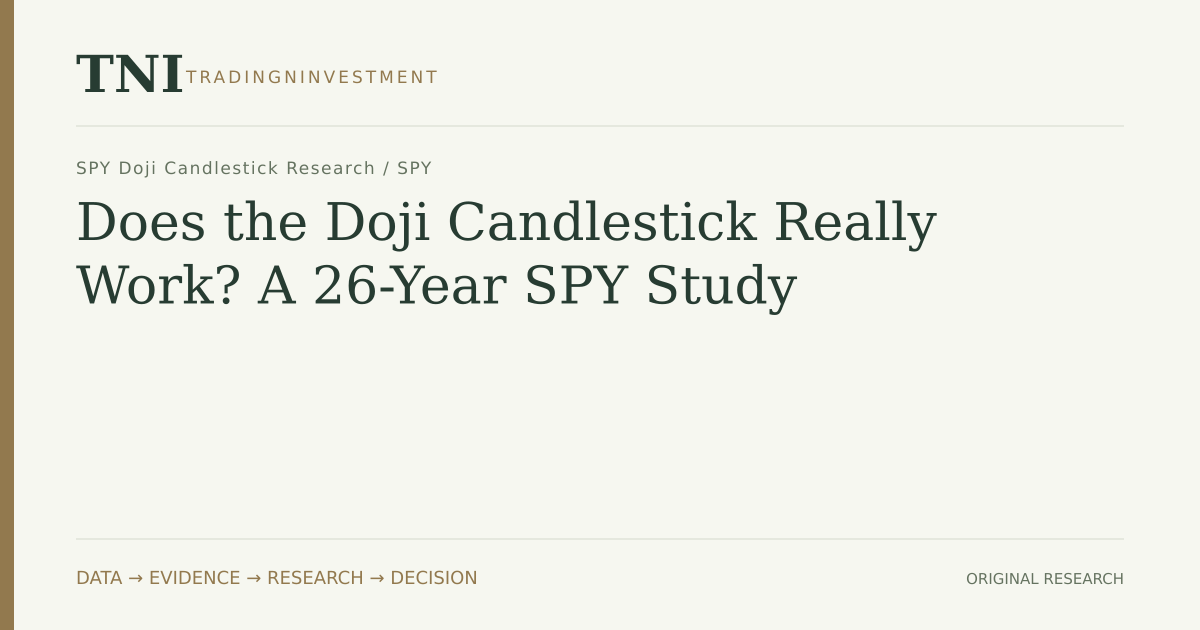
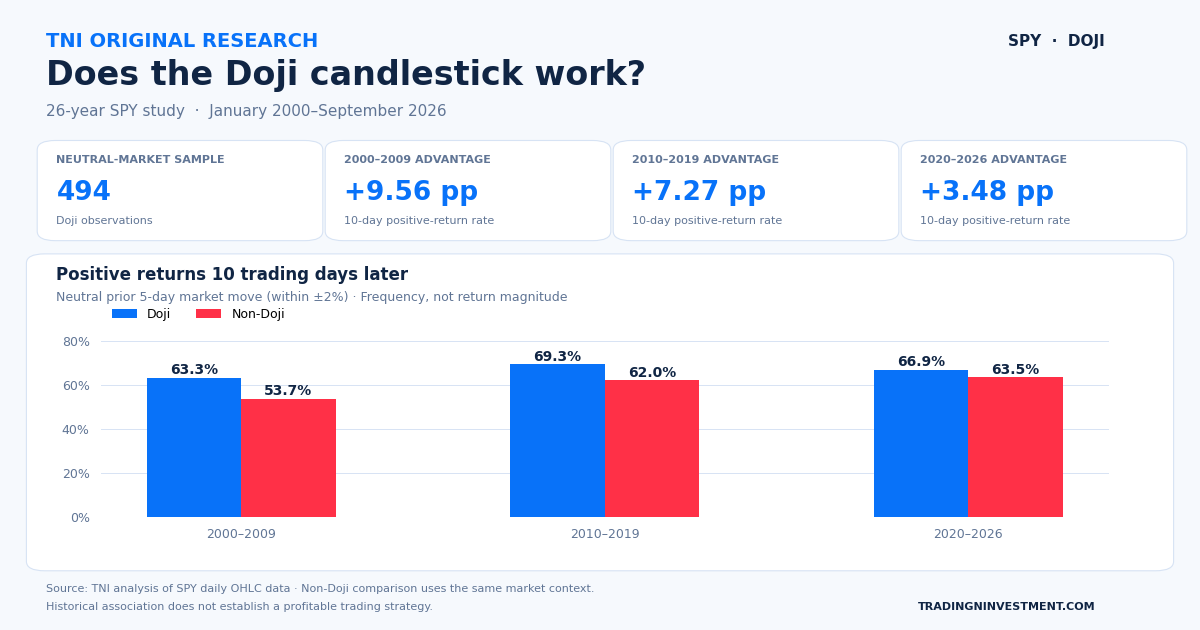
Fix mobile navigation and research cards; preserve approved Doji OG

diff --git a/src/App.tsx b/src/App.tsx
@@ -264,41 +264,25 @@ function Header({
             <span>→</span>
           </a>
         </div>
+        <details className="tni-mobile-menu" onKeyDown={(event) => {
+          if (event.key === 'Escape') {
+            event.currentTarget.open = false
+            event.currentTarget.querySelector('summary')?.focus()
+          }
+        }}>
+          <summary>Menu <span aria-hidden="true">⌄</span></summary>
+          <nav className="tni-mobile-menu-panel" aria-label="Mobile navigation">
+            <a href="/">Home</a>
+            <a href="/stock-market-today/">Stock Market Today <span aria-hidden="true">↗</span></a>
+            <a href="/research/">Research</a>
+            <a href="/about/">About</a>
+            <button type="button" onClick={shareCurrentPage}>Share this page</button>
+            <a className="tni-mobile-launch" href="https://app.tradingninvestment.com/live/news" target="_blank" rel="noreferrer">Launch TNI <span aria-hidden="true">↗</span></a>
+          </nav>
+        </details>
       </header>
 
-      {/* ====================================================================
-          MOBILE BOTTOM NAVIGATION
-          ==================================================================== */}
 
-      <nav className="mobile-bottom-nav">
-        <button
-          type="button"
-          className={pathname === '/' && page === 'research' ? 'active' : ''}
-          onClick={() => navigate('research')}
-        >
-          Home
-        </button>
-
-        <button type="button" className={pathname.startsWith('/research/') ? 'active' : ''} onClick={() => window.location.assign('/research/')}>Research</button>
-
-        <a className="mobile-tni-product" href="https://app.tradingninvestment.com/live/news" aria-label="Open TNI Intelligence">✦ TNI</a>
-
-        <button
-          type="button"
-          className={page === 'market' ? 'active' : ''}
-          onClick={() => window.location.assign('/stock-market-today/')}
-        >
-          Market
-        </button>
-
-        <button
-          type="button"
-          className={page === 'about' ? 'active' : ''}
-          onClick={() => navigate('about')}
-        >
-          About
-        </button>
-      </nav>
     </>
   )
 }

diff --git a/src/SiteShell.css b/src/SiteShell.css
@@ -417,3 +417,23 @@
     padding-bottom: 0;
   }
 }
+
+/* Mobile navigation: native details remains usable before hydration. */
+.tni-mobile-menu { display: none; }
+@media (max-width: 900px) {
+  .site-header { position: relative; z-index: 100; display: flex; align-items: center; justify-content: space-between; gap: 12px; padding: 14px 18px; min-height: 68px; box-sizing: border-box; }
+  .site-header .desktop-nav, .site-header .header-actions { display: none; }
+  .site-header .brand { min-width: 0; gap: 9px; padding: 0; }
+  .site-header .brand-mark { flex-shrink: 0; font-size: 20px; }
+  .site-header .brand-copy strong { font-size: 14px; line-height: 1.3; }
+  .site-header .brand-copy small { font-size: 7px; letter-spacing: .09em; }
+  .tni-mobile-menu { display: block; flex-shrink: 0; }
+  .tni-mobile-menu summary { display: flex; align-items: center; gap: 10px; cursor: pointer; list-style: none; border: 1px solid #dce5e8; border-radius: 12px; padding: 12px 14px; color: #172d35; background: #fff; font-size: 14px; font-weight: 650; }
+  .tni-mobile-menu summary::-webkit-details-marker { display: none; }
+  .tni-mobile-menu[open] summary { background: #edf7f4; border-color: #90bcb0; }
+  .tni-mobile-menu-panel { position: absolute; top: calc(100% + 6px); left: 14px; right: 14px; padding: 10px; display: grid; gap: 4px; border: 1px solid #dce5e8; border-radius: 18px; background: #fff; box-shadow: 0 18px 50px #17382c26; max-height: 75vh; overflow-y: auto; }
+  .tni-mobile-menu-panel a, .tni-mobile-menu-panel button { display: flex; align-items: center; justify-content: space-between; box-sizing: border-box; min-height: 48px; width: 100%; padding: 12px 14px; border: 0; border-radius: 10px; background: transparent; color: #17352f; font: inherit; font-size: 15px; text-align: left; text-decoration: none; cursor: pointer; }
+  .tni-mobile-menu-panel a:hover, .tni-mobile-menu-panel button:hover { background: #f0f6f4; }
+  .tni-mobile-menu-panel .tni-mobile-launch { background: #173f35; color: white; }
+  .tni-mobile-menu :focus-visible { outline: 3px solid #168b80; outline-offset: 3px; }
+}

diff --git a/src/components/home/PremiumResearchHome.css b/src/components/home/PremiumResearchHome.css
@@ -729,3 +729,13 @@
 /* Every selected homepage card uses its article-specific research identity. */
 .tni-home-publication-og{display:block;width:100%;height:auto;aspect-ratio:1200/630;object-fit:contain;border-radius:10px;background:#f3f5ee;margin-bottom:16px}
 .tni-home-features[hidden]{display:none}
+
+/* Preserve the complete OG artwork at every screen width. */
+.tni-home-feature > *, .tni-home-feature-visual { min-width: 0; }
+.tni-home-feature-visual { overflow: hidden; }
+.tni-home-feature-visual .tni-home-feature-og { display: block; width: 100%; max-width: 100%; height: auto; object-fit: contain; margin: auto; }
+@media (max-width: 720px) {
+  .tni-home-feature { display: flex; flex-direction: column; }
+  .tni-home-feature .tni-home-feature-visual { min-height: 0; height: auto; padding: 14px; box-sizing: border-box; width: 100%; }
+  .tni-home-feature-copy { min-width: 0; overflow-wrap: anywhere; }
+}

diff --git a/src/pages/SPYDojiResearchPage.tsx b/src/pages/SPYDojiResearchPage.tsx
@@ -98,6 +98,10 @@ export default function SPYDojiResearchPage() {
           </div>
         </section>
 
+        <section id="doji-period-chart" aria-label="Doji results across market periods">
+          <DojiDecadeChart />
+        </section>
+
         <div className="spy-doji-article-body">
           <section>
             <h2>The question behind the Doji</h2>
@@ -226,7 +230,7 @@ export default function SPYDojiResearchPage() {
               points higher than the corresponding non-Doji control.
             </p>
 
-            <DojiDecadeChart />
+            <p><a href="#doji-period-chart">View the comparison across market periods ↑</a></p>
 
             <p>
               The directional advantage appeared in all three
